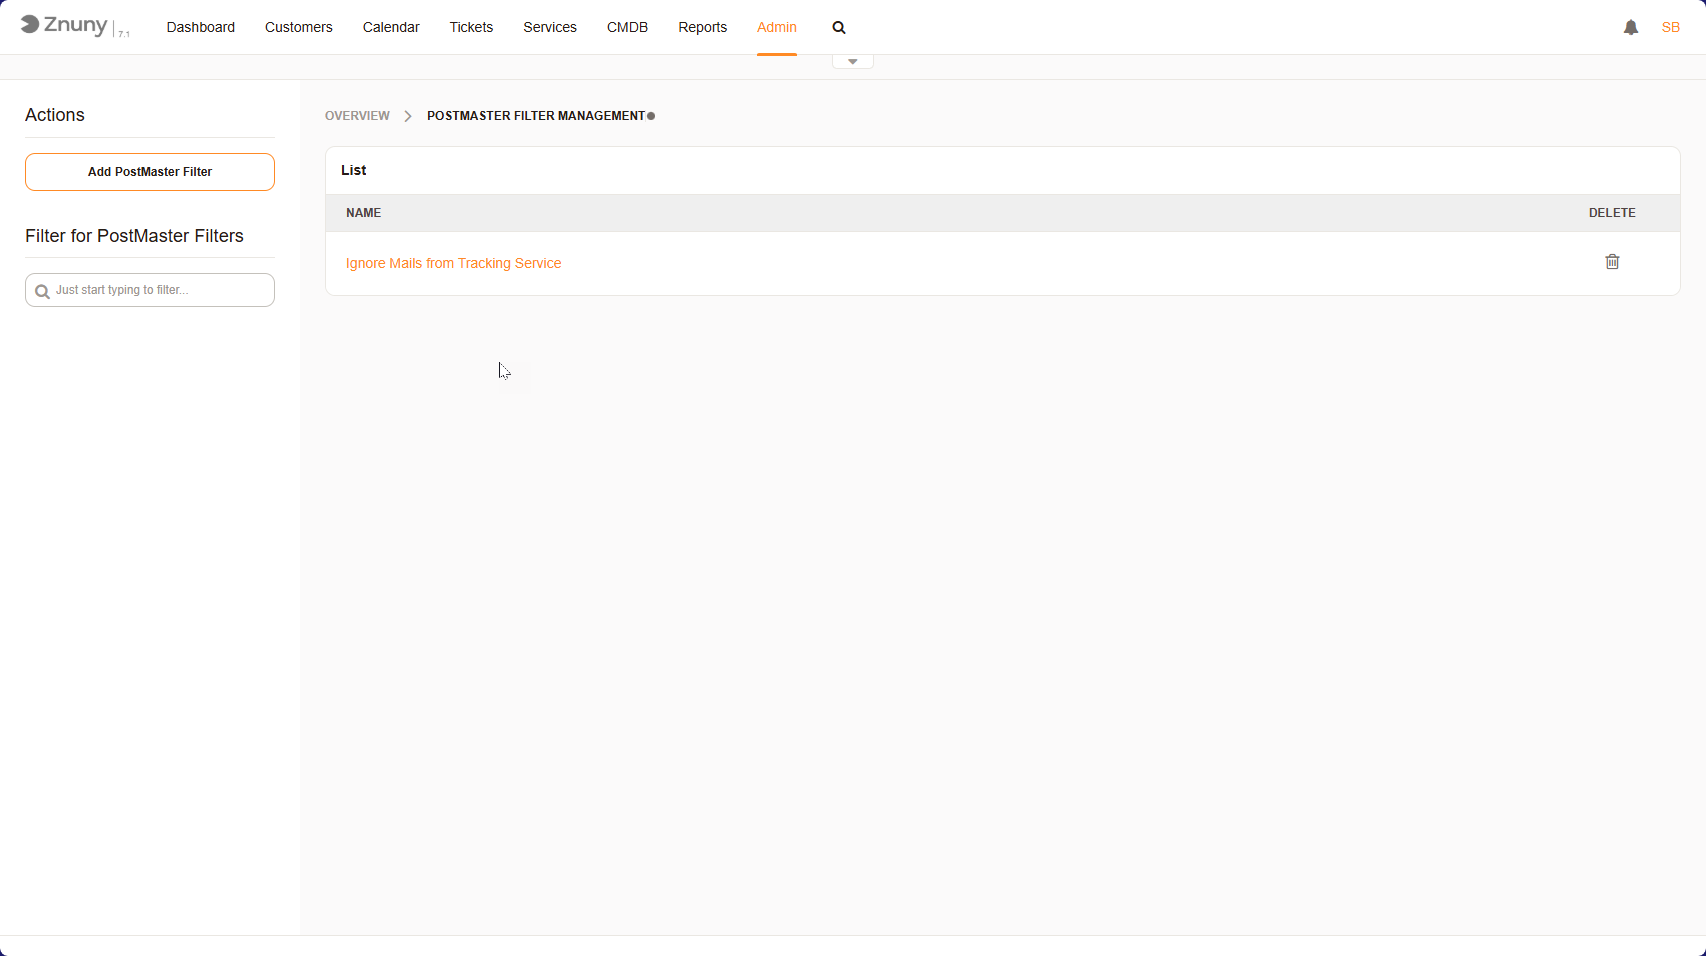
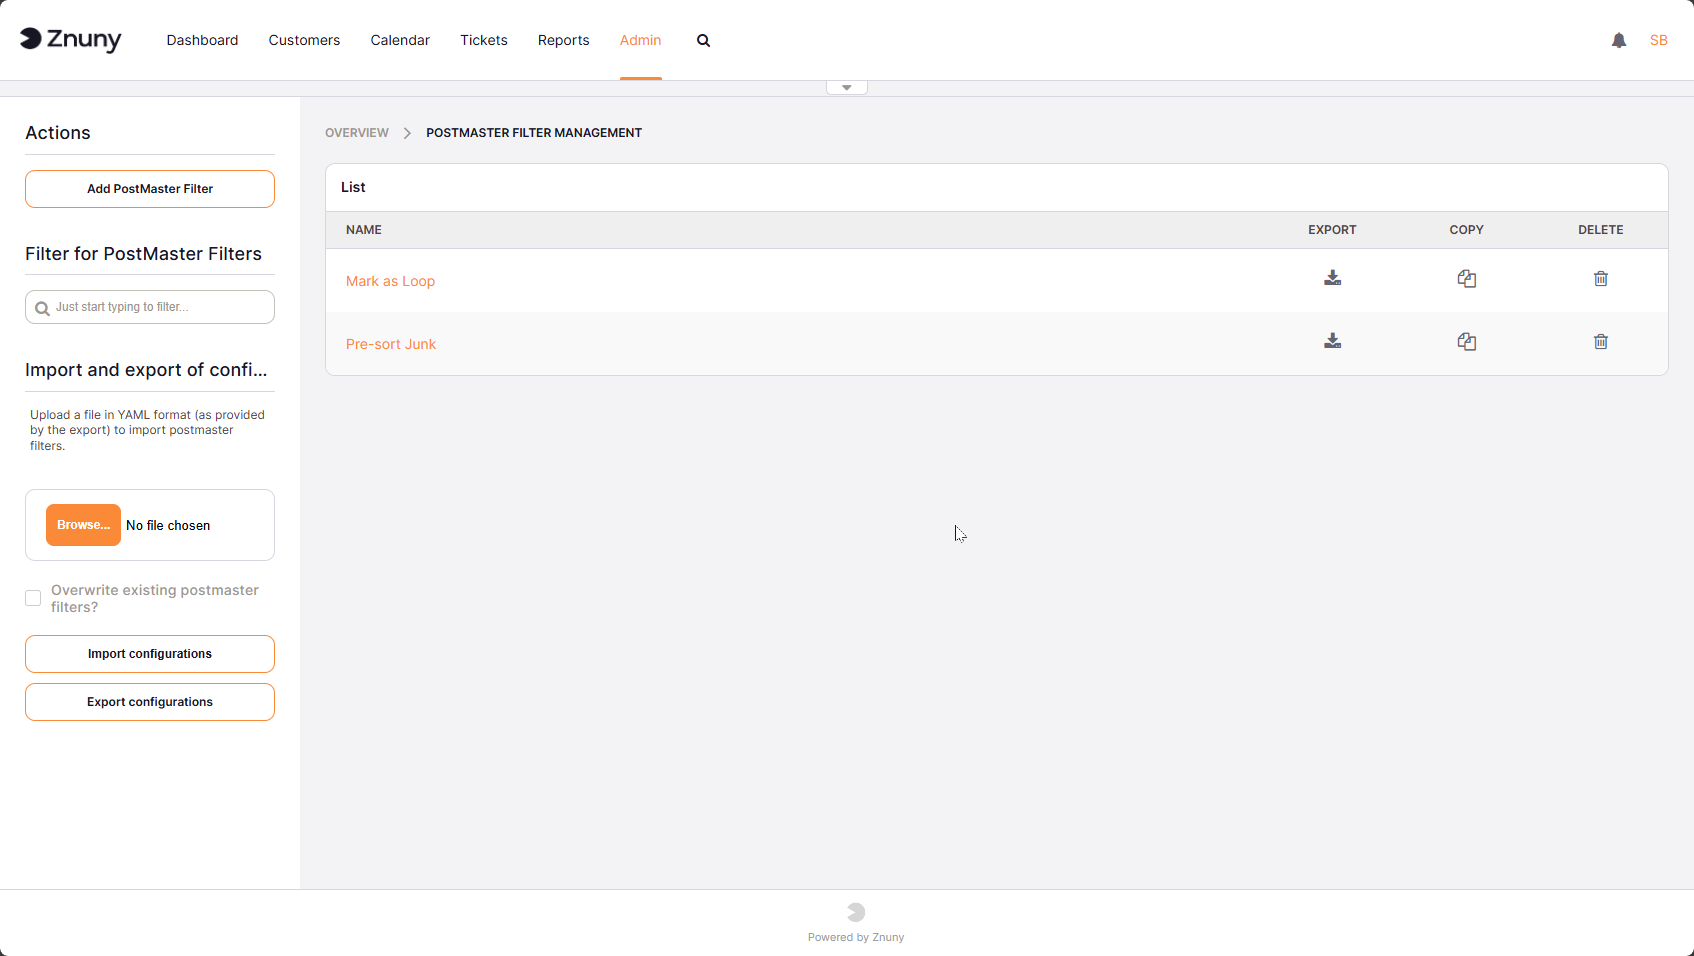
Added import/export/copy function for postmaster filters and generic agents.

diff --git a/source/admin/automation/postmaster_filter/index.rst b/source/admin/automation/postmaster_filter/index.rst
@@ -8,8 +8,6 @@ Overview
 The administration module, **PostMaster Filters** allows administrators to **automate email processing** by defining rules for incoming messages. 
 This helps in **organizing tickets**, **filtering unnecessary emails**, and **setting other various details** on tickets as required.
 
-This guide explains how to **add, search, and manage PostMaster filters** effectively.
-
 Accessing PostMaster Filter Management
 ***************************************
 
@@ -21,14 +19,20 @@ Accessing PostMaster Filter Management
 2. Click on **"Admin"** in the top navigation menu.
 3. Navigate to **PostMaster Filters**.
 
-Adding a New PostMaster Filter
-*******************************
+Filter Overview
+****************
+The PostMaster Filter management interface consists of:
 
-To create a new filter that processes incoming emails based on specific criteria:
+- **Left Panel**: Contains options to add new filters and a search bar to filter existing ones. Additionally you can export and import individual postmaster filters, or entire sets.
+- **Main Table**: Displays a list of existing filters with details such as Name, Search Header Field, Value, Set Email Header, and Value.
+- **Action Icons**: Options to copy, export, edit or delete filters.
 
 .. figure:: images/postmaster_filter_overview.PNG
 
    PostMaster Filter Overview
+
+Adding a New PostMaster Filter
+*******************************
 
 1. Click the **"Add PostMaster Filter"** button in the left panel.
 2. Configure the filter settings:
@@ -71,6 +75,7 @@ To create a new filter that processes incoming emails based on specific criteria
     Value can be the value of a named or single matching group, or any text value.
 
 3. Click **"Save"** to apply the filter.
+
 
 Additional Value Handling
 =========================
@@ -139,3 +144,4 @@ Additional Information
 **********************
 
 For a list of all available headers see :ref:`pagenavigation annexes_headers_index`.
+

diff --git a/source/admin/automation/generic_agent/index.rst b/source/admin/automation/generic_agent/index.rst
@@ -5,7 +5,31 @@ Scheduled Tasks (Generic Agent)
 
 It's very helpful to automatically perform tasks at any given time or when other actions occur within the system. The generic agent provides you with such flexibility.
 
-Programming a generic agent to run a scheduled task is available via the web interface.
+Accessing Generic Agent Management
+**********************************
+
+.. figure:: images/generic_agent_admin.PNG
+
+   Admin Module Generic Agent
+
+1. **Log in** to Znuny.
+2. Click on **"Admin"** in the top navigation menu.
+3. Navigate to **Generic Agent**.
+
+Filter Overview
+***************
+The Generic Agent management interface consists of:
+
+- **Left Panel**: Contains options to add new agents and a search bar to filter existing ones. Additionally you can export and import individual generic agents, or entire sets.
+- **Main Table**: Displays a list of existing agents with details such as Name, Execution Type, and Schedule.
+- **Action Icons**: Options to copy, export, edit or delete generic agents.
+
+.. figure:: images/generic_agent_overview.PNG
+
+   Generic Agent Overview
+
+Adding a New Generic Agent
+**************************
 
 You must enter a name and an execution type.
 

diff --git a/source/annexes/entity_management/index.rst b/source/annexes/entity_management/index.rst
@@ -5,18 +5,18 @@ Managing Entities
 
 An entity is any reusable item within the system. It has, in most cases, a canonical name, a valid setting, and a comment. Typical entities are (but not limited to):
 
-- Auto responses
-- Notifications
-- States
-- Priorities
-- Types
-- Roles
-- Groups
 - Attachments
-- Templates
+- Auto responses
+- Groups
+- Notifications
+- Priorities
 - Processes
+- Roles
 - Salutations
 - Signatures
+- States
+- Templates
+- Types
 
 There are two types of screens when dealing with entities.
 
@@ -52,11 +52,13 @@ Exporting and importing entities
 The following entities can be exported and imported:
 
 - Auto responses
+- Generic Agents
 - Notifications
-- Templates
+- PostMaster Filters
 - Processes
 - Salutations
 - Signatures
+- Templates
 
 Bulk export and import
 =======================
